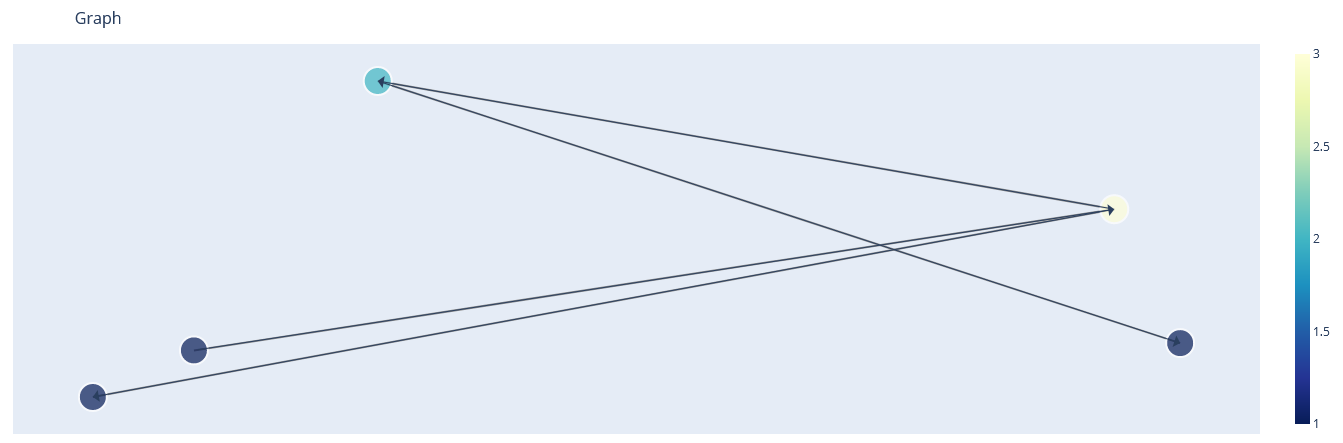
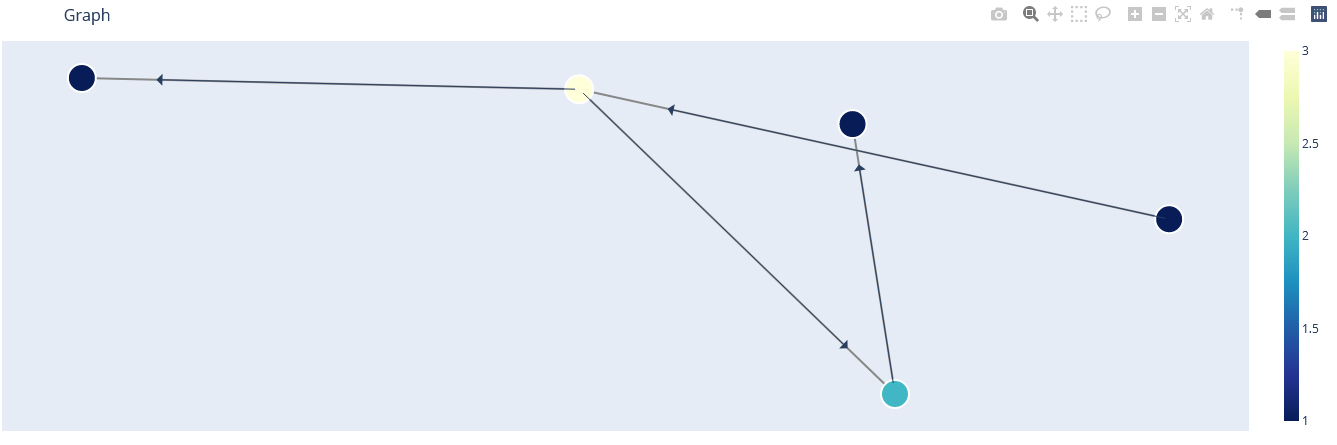
made arrows more visually appealing

diff --git a/igviz/igviz.py b/igviz/igviz.py
@@ -20,6 +20,7 @@ def plot(
     annotation_text="",
     colorscale="YlGnBu",
     colorbar_title="",
+    node_opacity=1,
     arrow_size=2,
 ):
     """
@@ -112,6 +113,9 @@ def plot(
     colorbar_title : str, optional
         Color bar axis title, by default ""
 
+    node_opacity : int, optional
+        Opacity of the nodes (1 - filled in, 0 completely transparent), by default 1
+
     arrow_size : int, optional
         Size of the arrow for Directed Graphs and MultiGraphs, by default 2.
     
@@ -138,6 +142,7 @@ def plot(
         edge_label=edge_label,
         edge_label_position=edge_label_position,
         edge_text=edge_text,
+        node_opacity=1,
     )
 
     fig = _generate_figure(
@@ -167,6 +172,7 @@ def _generate_scatter_trace(
     edge_label: str,
     edge_label_position: str,
     edge_text: bool,
+    node_opacity: int,
 ):
     """
     Helper function to generate Scatter plot traces for the graph.
@@ -217,6 +223,7 @@ def _generate_scatter_trace(
                 thickness=15, title=colorbar_title, xanchor="left", titleside="right"
             ),
             line_width=2,
+            opacity=node_opacity,
         ),
     )
 
@@ -338,8 +345,14 @@ def _generate_figure(
                     ay=G.nodes[edge[0]]["pos"][1],
                     axref="x",
                     ayref="y",
-                    x=G.nodes[edge[1]]["pos"][0],
-                    y=G.nodes[edge[1]]["pos"][1],
+                    x=(
+                        G.nodes[edge[1]]["pos"][0] * 0.85
+                        + G.nodes[edge[0]]["pos"][0] * 0.15
+                    ),
+                    y=(
+                        G.nodes[edge[1]]["pos"][1] * 0.85
+                        + G.nodes[edge[0]]["pos"][1] * 0.15
+                    ),
                     xref="x",
                     yref="y",
                     showarrow=True,

diff --git a/docs/index.rst b/docs/index.rst
@@ -218,7 +218,9 @@ Customizable Options
 
 - colorscale : Scale of the color bar ('Greys', 'YlGnBu', 'Greens', 'YlOrRd', 'Bluered', 'RdBu', 'Reds', 'Blues', 'Picnic', 'Rainbow', 'Portland', 'Jet', 'Hot', 'Blackbody', 'Earth', 'Electric', 'Viridis')
         
-- colorbar_title : Color bar axis title, by default ""
+- colorbar_title : Color bar axis title
+
+- node_opacity : Opacity of the nodes (1 - filled in, 0 completely transparent), by default 1
 
 - arrow_size : Size of the arrow for Directed Graphs and MultiGraphs, by default 2.
 

diff --git a/README.md b/README.md
@@ -213,7 +213,9 @@ ig.plot(
 
 - colorscale : Scale of the color bar ('Greys', 'YlGnBu', 'Greens', 'YlOrRd', 'Bluered', 'RdBu', 'Reds', 'Blues', 'Picnic', 'Rainbow', 'Portland', 'Jet', 'Hot', 'Blackbody', 'Earth', 'Electric', 'Viridis')
         
-- colorbar_title : Color bar axis title, by default ""
+- colorbar_title : Color bar axis title.
+
+- node_opacity : Opacity of the nodes (1 - filled in, 0 completely transparent), by default 1
 
 - arrow_size : Size of the arrow for Directed Graphs and MultiGraphs, by default 2.
 
